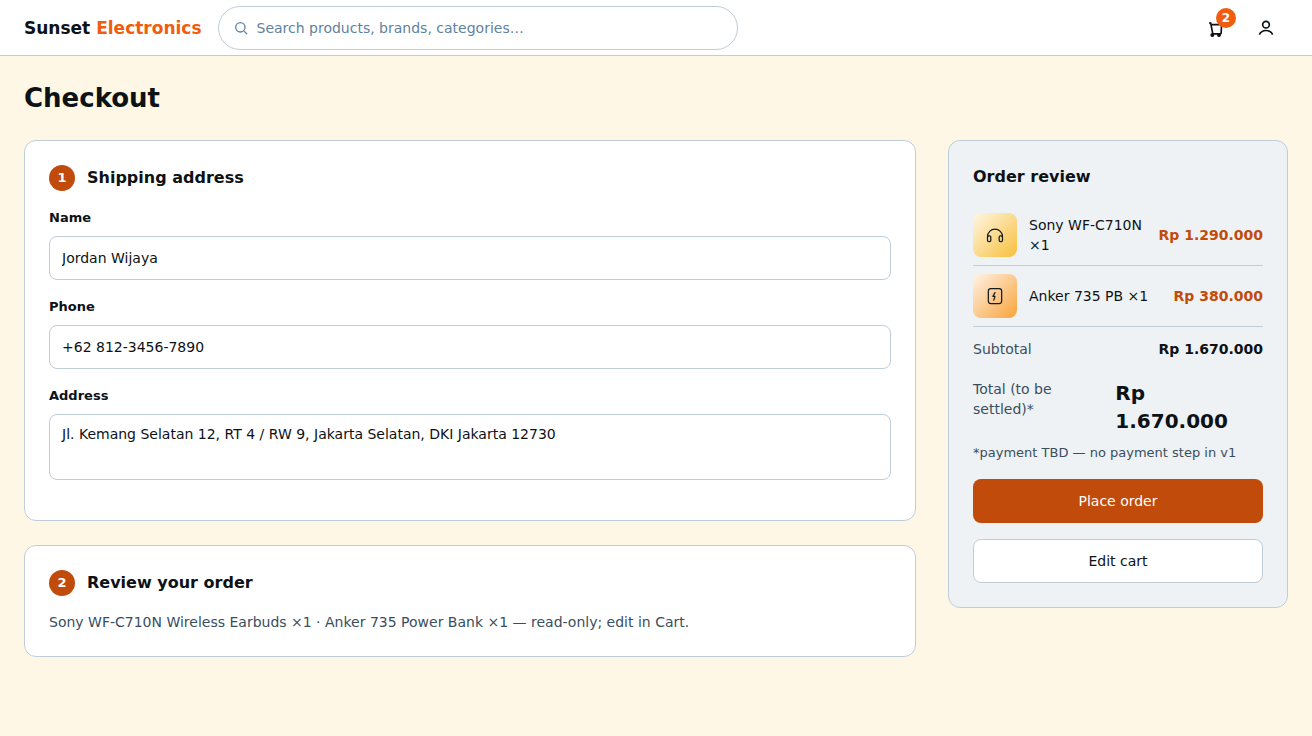
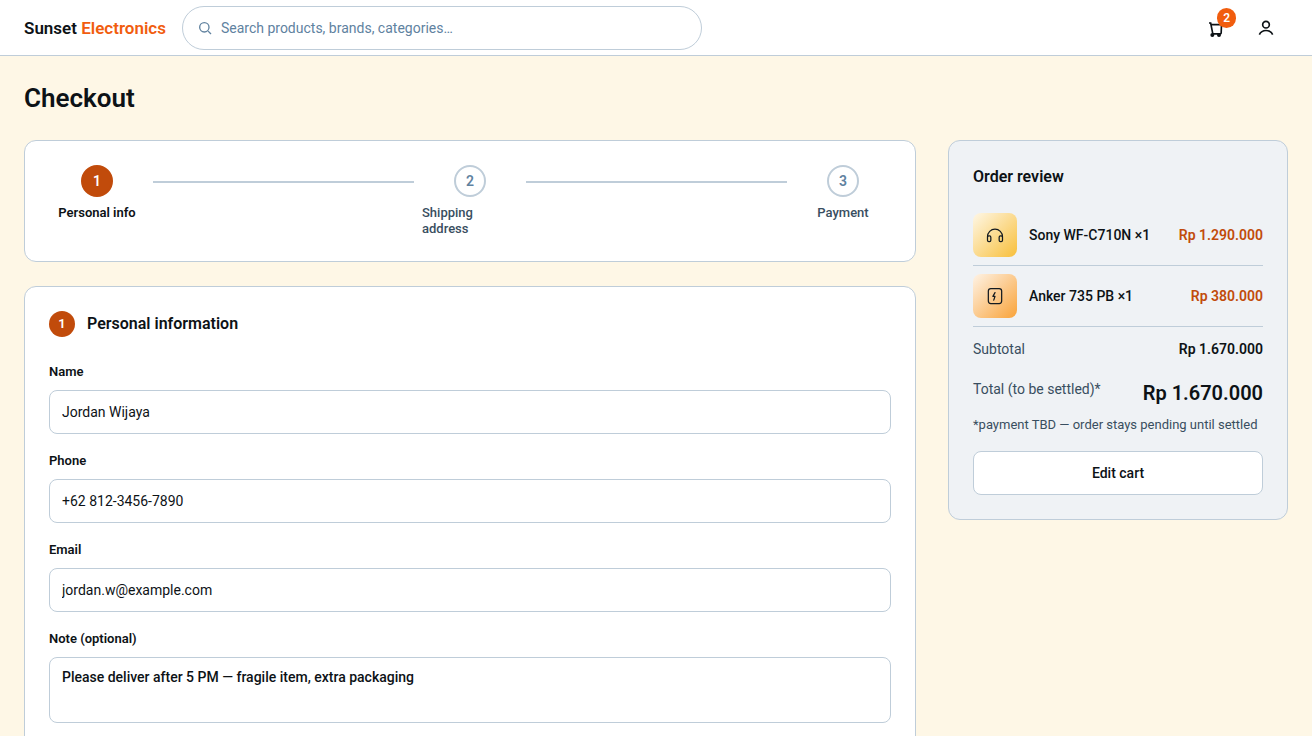
docs(checkout): capture 4-state checkout wizard mockups (step1/shipping/payment/receipt)
Rendered by _mockup-build/capture_checkout.py (reuses pages_storefront
_co_page/CO_CSS/page_wrap, no duplicated markup) via headless Chromium
1312x736 -> docs/checkout/{mockup, mockup-step2-shipping,
mockup-step3-payment, mockup-receipt}.png. mockup.png replaces the old
2-step render (now step-1 of the 4-state wizard). design.md VISUALIZATION
already lists all 4 filenames (19c30eb). Domains: step-3-only Place-order
CTA + receipt #WB-1043 with pending chip verified in DOM and visually.

diff --git a/_mockup-build/capture_checkout.py b/_mockup-build/capture_checkout.py
@@ -1,0 +1,42 @@
+"""Build the 4-state checkout-wizard capture set from the tracked generator.
+
+Writes _mockup-build/out/*.html for each wizard state by reusing the
+module-level builders (page_wrap / _co_page / CO_CSS) — no duplicated markup.
+
+States -> out names (rendered by render.py-style headless Chromium into
+docs/checkout/*.png; see docs/checkout/design.md VISUALIZATION):
+  1 -> checkout.html                  (step 1 — Personal info)
+  2 -> checkout-step2-shipping.html   (step 2 — Shipping)
+  3 -> checkout-step3-payment.html    (step 3 — Payment, "Place order" visible)
+  4 -> checkout-receipt.html          (step 4 — receipt confirmation)
+
+Usage:  python3.12 _mockup-build/capture_checkout.py
+Then:   /snap/bin/chromium --headless --no-sandbox --disable-gpu \
+          --disable-dev-shm-usage --hide-scrollbars --virtual-time-budget=5000 \
+          --screenshot=<docs/checkout/mockup[-suffix].png> --window-size=1312,736 \
+          file://<ROOT>/_mockup-build/out/<name>.html
+"""
+import sys, os
+sys.path.insert(0, os.path.dirname(os.path.abspath(__file__)))
+
+from lib import page_wrap
+from pages_storefront import CO_CSS, _co_page, _STEP  # noqa: F401
+
+OUT = os.path.join(os.path.dirname(os.path.dirname(os.path.abspath(__file__))),
+                   "_mockup-build", "out")
+os.makedirs(OUT, exist_ok=True)
+
+CAPTURES = [
+    (1, "checkout.html"),
+    (2, "checkout-step2-shipping.html"),
+    (3, "checkout-step3-payment.html"),
+    (4, "checkout-receipt.html"),
+]
+
+for step, outname in CAPTURES:
+    html = page_wrap(_co_page(step), CO_CSS, "Checkout")
+    path = os.path.join(OUT, outname)
+    with open(path, "w") as f:
+        f.write(html)
+    print(f"step {step} -> {outname} ({len(html)} bytes)")
+print(f"capture_checkout: {len(CAPTURES)} HTML written to _mockup-build/out/")
